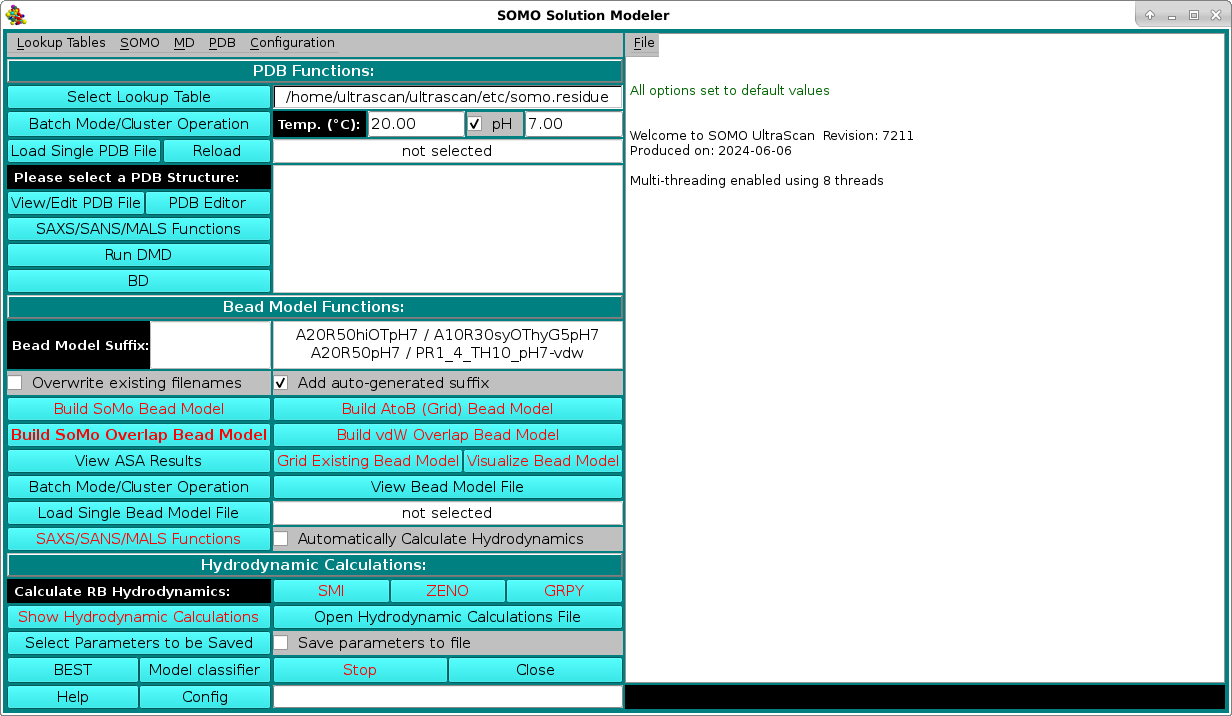
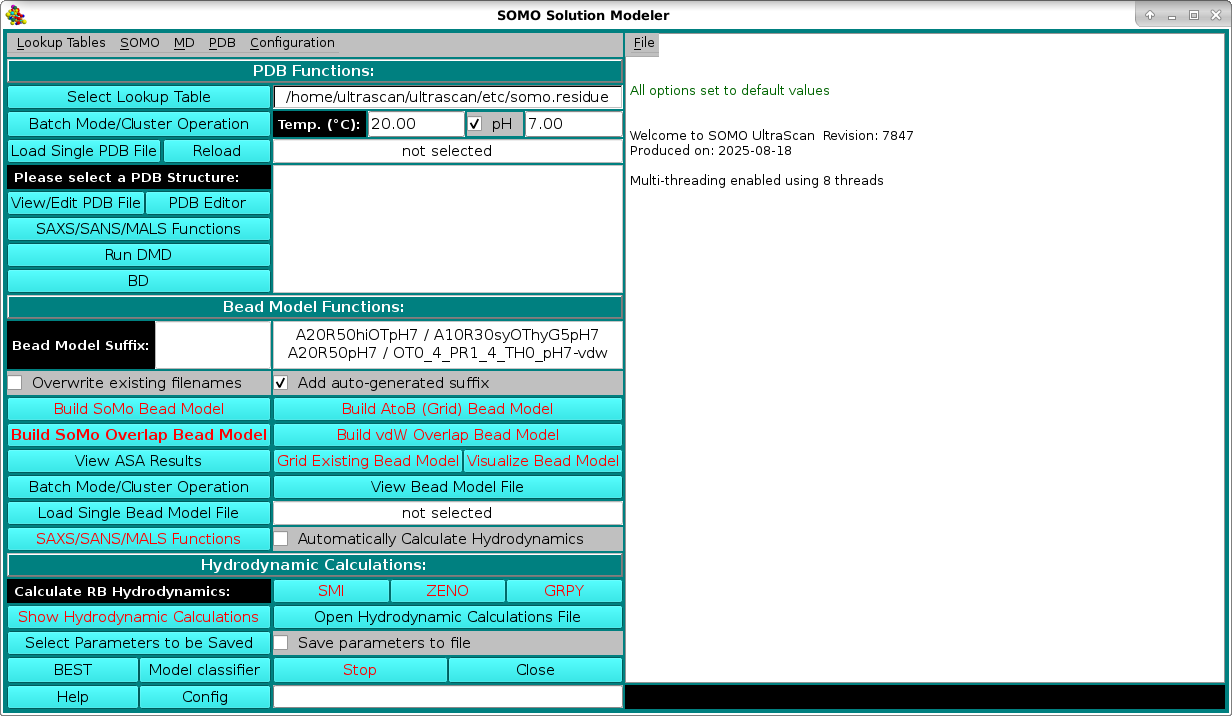
somo doc updates

diff --git a/us_somo/somo/doc/manual/somo/somo.html b/us_somo/somo/doc/manual/somo/somo.html
@@ -24,7 +24,7 @@
 SOMO - SOlution MOdeler: bead and SAXS/SANS modeler for (bio)macromolecular structures</h2>
 </center>
 <p>
-<h3><center>Last updated: June 2024 </center></h3><p>
+<h3><center>Last updated: August 2025 </center></h3><p>
 <p>
 <h3><b>Overview and History</b></h3>
 <p>
@@ -39,7 +39,7 @@ In <span style="color:#CC0000">2017</span>, a new implementation of the <i><b>ZE
 In <span style="color:#CC0000">2018</span>, a new computational method that could handle bead models with <i>overlapping beads of different size</i> has been presented (Zuk et al., GRPY: an accurate bead method for calculation of hydrodynamic properties of rigid biomacromolecules,  Biophys. J. 115:782-800, 2018). <b><i>GRPY</i></b> (<i>Generalized Rotne-Prager-Yamakawa</i>) works in the same framework as the <b><i>SMI</i></b> method, while solving the long-standing issue of overlaps between beads of different sizes and providing robust estimates of the intrinsic viscosity and the rotational diffusion coefficients (the latter are not computed by <b><i>ZENO</i></b>), but is rather more computationally intensive. A non-parallel <b><i>GRPY</i></b> code was made available within <b><i>US-SOMO</i></b> as an additional computational option, and a full implementation allowing multi-core parallel processing is now available for all operating systems from the <span style="color:#CC0000">July 2024</span> release.<br>
 <span style="color:#CC0000">Importantly</span>, the <b><i>GRPY</i></b> availability has allowed us to re-examine the performance of the <b><i>SMI</i></b> method for what concerns models with non-overlapping beads. While small differences were found for the <i>translational diffusion</i> properties computations, we are sorry to report that the <b><i>SMI</i></b> calculations of the <i>rotational diffusion</i> and the <i>intrinsic viscosity</i> did not match the state-of-the-art <b><i>GRPY</i></b> results for simple bead models (linear arrays, compact  arrays, round arrays, all with equal radius) test structures, with up to 40% differences for the <i>rotational diffusion</i> properties. This failure directly stems from the inadequacy of the so-called "volume correction" that was originally developed by J. Garc&iacute;a de la Torre and collaborators and that is implemented in the <b><i>SMI</i></b> routines (see Spotorno et al., Eur. Biophys. J. 25:373-384, 1997; Erratum 26:417, 1997). While the Garc&iacute;a de la Torre group has subsequently introduced improvements for the computation of the <i>rotational diffusion</i> and the <i>intrinsic viscosity</i> (see Garc&iacute;a de la Torre et al., Improved calculation of rotational diffusion and intrinsic viscosity of bead models for macromolecules and nanoparticles. J. Phys. Chem. B 111, 955-961, 2007), it turns out that these can be applied only for non-overlapping beads of <b>equal size</b>. Therefore, from the <span style="color:#CC0000">February 2021</span> <b><i>US-SOMO</i></b> release, the <b><i>SMI</i></b> method hydrodynamic computations output will <span style="color:#CC0000">NOT</span> report anymore the <i>rotational diffusion</i> properties and the <i>intrinsic viscosity</i> values. Users interested in these calculations can utilize the state-of-the-art <b><i>GRPY</i></b> method, that is, however, computationally demanding, or, limited to the <i>intrinsic viscosity</i> calculation, the <b><i>ZENO</i></b> method, that can handle large structures. <br><p>
 
-Importantly, the availability of parallel <b><i>GRPY</i></b> and the <b><i>vdW models</i></b> has allowed us to test in detail the performance of the <b><i>ZENO</i></b> method. We found that the <b><i>ZENO</i></b> calculation of <i>D<sub>t</i><sub>(20,w)</sub> constantly produced relatively larger (&#126;+1-2%) values than those computed by <b><i>GRPY</i></b> for our test set of 25 protein structures. We could track a dependency on the "<i>skin thickness</i>" parameter in the <b><i>ZENO</i></b> calculations, that correlated linearly, although not perfectly, with the radius of gyration <i>R<sub>g</sub></i> of those proteins. Surface roughness appeared also to be a factor, but calculations of a proxy for this feature, the mass or surface fractal dimensions (<i><b>D<sub>m</sub></i></b> and <i><b>D<sub>s</sub></i></b>) did not produce any useful correlation. Incidentally, stemming from this work the calculations of <b><i>D<sub>m</sub></i></b> and <b><i>D<sub>s</sub></i></b> can now be performed as an option on loading a (bio)-macromolecular structure in <b><i>US-SOMO</b></i>. Using more elongated structures (derived from the fibrinogen main body crystal structure 3GHG.pdb) we found that the <b><i>ZENO</i></b> skin-dependence of the differences with the <b><i>GRPY</i></b> calculations reached a plateau at <i>R<sub>g</sub></i> values of 50-60 &Aring;. The <i>R<sub>g</sub></i>-dependence of this entire dataset of 33 protein structures was fitted with a sigmoid, and using this skin thickness heuristic dependence reduced the discrepancy between <b><i>GRPY</i></b> and <b><i>ZENO</i></b> calculated <i>D<sub>t</i><sub>(20,w)</sub> values to an average of 0.5&plusmn;0.22% (range &plusmn;0.6%) (Brookes and Rocco, manuscript in preparation). This heuristic <b><i>ZENO</i></b> skin value calculation is now offered as a <b><i>default</i></b> option from the <span style="color:#CC0000">July 2024</span> release of <b><i>US-SOMO</i></b>. <br><p>
+Importantly, the availability of parallel <b><i>GRPY</i></b> and the <b><i>vdW models</i></b> has allowed us to test in detail the performance of the <b><i>ZENO</i></b> method. We found that the <b><i>ZENO</i></b> calculation of <i>D<sub>t</i><sub>(20,w)</sub> constantly produced relatively larger (&#126;+1-2%) values than those computed by <b><i>GRPY</i></b> for our test set of 25 protein structures. We could track a dependency on the "<i>skin thickness</i>" parameter in the <b><i>ZENO</i></b> calculations, that correlated linearly, although not perfectly, with the radius of gyration <i>R<sub>g</sub></i> of those proteins. Surface roughness appeared also to be a factor, but calculations of a proxy for this feature, the mass or surface fractal dimensions (<i><b>D<sub>m</sub></i></b> and <i><b>D<sub>s</sub></i></b>) did not produce any useful correlation. Incidentally, stemming from this work the calculations of <b><i>D<sub>m</sub></i></b> and <b><i>D<sub>s</sub></i></b> can now be performed as an option on loading a (bio)-macromolecular structure in <b><i>US-SOMO</b></i>. Using more elongated structures (derived from the fibrinogen main body crystal structure 3GHG.pdb) we found that the <b><i>ZENO</i></b> skin-dependence of the differences with the <b><i>GRPY</i></b> calculations reached a plateau at <i>R<sub>g</sub></i> values of 50-60 &Aring;. However, a different skin thickness value is required for the same bead model to match also the intrinsic viscosity [&eta;], rendering this approach impractical. In a recent work (Brookes, Zuk and Rocco, Bead model hydrodynamics: an in-depth comparison between GRPY and ZENO. Eur Biophys J (2025). https://doi.org/10.1007/s00249-025-01758-8) that established <i><b>GRPY</b></i> as the most accurate method available within <b><i>US-SOMO</i></b>, we introduced a heuristic correction for <i><b>ZENO</b></i> without varying the skin thickness, and based instead on a power-law fit of the changes as a function of the number of beads present in the model (see <a href="somo_hydro_zeno.html">here</a>). This correction reduces the discrepancy between <b><i>ZENO</i></b> and <b><i>GRPY</i></b> calculated <i>D<sub>t</i><sub>(20,w)</sub> values to an average of -0.11&plusmn;0.22% (range -0.56 +0.27%) for globular proteins, and to +0.25&plusmn;0.16% (range +0.06 +0.52%) for elongated structures. Moreover, a second power-law fit provides a way of correcting <b><i>ZENO</b></i>-calculated [&eta;] values reducing the average percent difference for globular proteins to -0.03&plusmn;0.44% (range -0.79 +0.92%), and to +0.48&plusmn;0.42% (range +0.21 +0.85%) for elongated structures. These heuristic <b><i>ZENO</i></b> corrections are now offered as a <b><i>default</i></b> option from the <span style="color:#CC0000">August 2025</span> release of <b><i>US-SOMO</i></b>. <br><p>
 
 
 <b><i>US-SOMO</i></b> also includes a fully functional Small-Angle X-ray or Neutron Scattering (SAXS/SANS) simulator module, which works on either the original atomic structure, or on a bead model, and has enhanced experimental data processing capabilities. In the modeling area, several methods are offered for the computation of SAXS and SANS <i>I(q)</i> vs. <i>q</i> curves. Some of these methods require explicit hydration of the PDB structure(s), which should be presently externally provided. A pairwise-distance distribution function <i>P(r)</i> vs. <i>r</i> computation starting from a PDB structure is fully operational for both SAXS and SANS, and includes a graphical mapping utility to visualize which residues in the structure are contributing to specified distance ranges. An indirect Fourier transform Bayesian algorithm, based on the work by Hansen (Hansen, J. Appl. Crystallogr. 33:1415-1421, 2000; Hansen, J. Appl. Crystallogr. 41:436-445, 2008), has been implemented for the computation of the pairwise distance distribution function from SAS data.<br>
@@ -173,7 +173,7 @@ Pressing the <i><b>RUN DMD</b></i> button will first open the <a href="somo_clus
 <tr>
 <center>
 <table id="somomainwindow" BORDER CELLSPACING=0 CELLPADDING=5 bgcolor="#FFFFFF">
-<td><center><img SRC="Somo_BeadModel_functions_June2024.png" ALT="SOMO Screen"></td>
+<td><center><img SRC="Somo_BeadModel_functions_June2024.png" ALT="SOMO Bead Model functions Screen"></td>
 </tr> 
 </table>
 </center>
@@ -183,7 +183,7 @@ Pressing the <i><b>RUN DMD</b></i> button will first open the <a href="somo_clus
 <b>Bead Model Functions:</b><br>
 Once a model structure (or multiple model structures in the case of NMR-style formatted data) are selected, the <i><b>Build SoMo Bead Model</b></i>,
 <i><b>Build AtoB (Grid) Bead Model</b></i>, <i><b>Build SoMo Overlap Bead Model</b></i>, and <i><b>Build vdW Overlap Bead Model</b></i> buttons will also become active, offering alternative ways of generating a bead model. In particular, the third option, which will generate a <i>SoMo</i>-type bead model with overlaps without then removing them, is an addition made available starting from the May 2015 release, reflecting the conclusions of an extensive examination of all the hydrodynamic modeling/computational methods then available (Rocco and Byron,  Eur. Biophys. J. 44:417-431, 2015). The fourth option, still under active development, has been added with the January 2018 release, and allows generating a bead model where each atom present in the PDB file is represented by a bead whose radius is equal to the atom's van der Waals radius as listed in the <i>somo.residue</i> table. If water molecules are associated to any particulat atom in the <i>somo.residue</i> table, their volume is taken into account in the definition of the bead's radius. As of <span style="color:#CC0000">July 2024</span>, tests with an extended set of proteins have provided evidence that the <b><i>vdW with Ovelaps</i></b> models can now reproduce accurately their translational diffusion, rotational diffusion, and intrinsic viscosity parameters, although the exact details of the hydrated beads positioning are still under evaluation (Brookes and Rocco, manuscript in preparation). Note that if the latter two bead modeling methods are chosen, the <b><i>SMI</i></b> method will not be available, and only the <b><i>ZENO</i></b> and <b><i>GRPY</i></b> computational methods could be used (see below).<br>
-In the <b>Bead Model suffix</b> field you can enter a tag that will be added to the bead model filename, which is automatically generated from the PDB filename by adding "_1" and the extension ".bead_model".<br>
+In the <b>Bead Model Suffix</b> field you can enter a tag that will be added to the bead model filename, which is automatically generated from the PDB filename by adding "_1" and the extension ".bead_model".<br>
 In addition, the <i>Add auto-generated suffix</i> checkbox is selected by <b>default</b> (it can be deselected), and the corresponding field above is populated with a series of alphanumeric characters specifying the main options chosen during bead models generation. These characters will be also added to the bead model filename, to allow for a quick identification of the options used in its generation. Thus, "A20" stands for a residues' ASA cutoff threshold of 20 &Aring; (<b>default</b>), "R50" stands for a bead's ASA re-check cutoff threshold of 50% of its total surface area (<b>default</b>) (see <a href=somo_asa.html>here</a>), "hi" signifies hierarchical overlap reduction in all stages (alternatively, "sy" stands for synchronous overlap reduction), and "OT" means that the outward translation option during overlap removal of exposed side-chain beads is active (see <a href=somo_overlap.html>here</a> and <a href=somo_grid_overlap.html>here</a>).  <br>
 The "-so" suffix is added if the <i><b>Build SoMo Bead Model</b></i> button is then pressed, while the "-a2b" suffix is instead added if the <i><b>Build AtoB (Grid) Bead Model</b></i> button is pressed. In this case, the suffix symbols also include "G<i>n</i>" for the grid resolution, with <i>n</i> the actual value, and "hy" if the atomic-level hydration option is active (see <a href=somo_grid.html>here</a>). If the <i><b>Build SoMo Overlap Bead Model</b></i> is chosen, only the residues' and beads' recheck ASA cut-offs ("<i>A</i>" and "<i>R</i>" values) will be added, with extension "-so_ovlp". If the <i><b>Build vdW Overlap Bead Model</b></i> is chosen, suffixes will start with "OT<i>x_y</i>", where "<i>x_y</i>" reports the OT multiplier if different from 0 (see <a href=somo_vdw_overlap.html>here</a>), and then they will include the ASA probe radius used to identify exposed <i>atoms</i> to be hydrated ("<i>PR#_#</i>, with #_# the radius value in &Aring;) and the threshold accessible surface area thus computed for each hydratable atom ("<i>TH#</i>", with "#" the value in &Aring;<sup>2</sup>) (see <a href=somo_asa.html>here</a>). The extension will be "-vdw" and no other bead-generation methods symbols will be added, since they have no meaning in this case. However, if the <b><i>GRPY</b></i> hydrodynamic computations method is then utilized, and if the <b><i>Exclude</i></b> checkbox is selected for the "<i>Inclusion of Buried Beads in the Hydrodynamic Calculations (For GRPY)</i>" option in the <a href="somo_hydro.html"><b><i>Hydrodynamic Calculations Options</b></i></a> panel, the "<i>R#</i>" suffix (beads' ASA % re-check cutoff threshold) and a "<i>PR#_#</i>" suffix (ASA probe radius size, &Aring;) will be added with the used values (see <a href=somo_asa.html>here</a>). Finally, the last entry in the suffix field reports the pH at which the model was generated (the pH affects the hydration values at the atomic level).<br>
 Upon loading a PDB file and if the <i>Add auto-generated suffix</i> checkbox is not de-selected, the corresponding field will show the four current strings available for <i>SoMo without overlaps</i>, <i>AtoB</i>, <i>SoMo with overlaps</i>, and <i>vdW with overlaps</i> bead models. If any of the options coded in the strings are changed, the field will be automatically updated. The final string will appear once a bead model generation operation is launched. Note that you can keep processing a loaded PDB file after changing any of the various model-building options (see below). If the <i>Overwrite existing filenames</i> checkbox is selected, existing filenames will be overwritten without a warning. Otherwise, a pop up menu will instead appear offering alternative options (see <a href="somo_file.html">here</a>). The <i>Overwrite existing filenames</i> checkbox is automatically selected for batch mode operations.<br>
@@ -218,14 +218,29 @@ although using the improved AtoB routine on the original PDB file while increasi
 <table BORDER CELLSPACING=0 CELLPADDING=5 bgcolor="#FFFFFF">
 <tr>
 
-<td><center><img SRC="somo-Hydrodynamic_calculations_September2020.png" ALT="Bead Model Functions Screen"></td>
+<td><center><img SRC="somo-Hydrodynamic_calculations_September2020.png" ALT="Hydrodynamic Calculations Panel"></td>
 </tr> 
 </table>
 </center>
 <td align=justify>
 <p>
 <b>Hydrodynamic Calculations:</b><br>
-The hydrodynamic parameters can then be determined in the <b>rigid-body (RB) approximation</b> by clicking on either ot the three options present under the <i><b>Calculate RB Hydrodynamics</b></i> field: <i><b>SMI</b></i>, <i><b>ZENO</b></i>, or <i><b>GRPY</b></i>. If the bead model was generated by pressing the <i><b>Build SoMo Overlap Bead Model</b></i> or the <i><b>Build vdW Overlap Bead Model</b></i> buttons, or if it was uploaded and contains either the "-so_ovlp" of the "-vdw" suffix, only the <i><b>ZENO</b></i> or <i><b>GRPY</b></i> buttons will be available. If the  <i><b>Calculate RB Hydrodynamics SMI</b></i> button is pressed, the <b><i>SMI</i></b> method will anyway perform an overlap test, using the cut-off present either in the bead model file, or that present in the <b><i>Overlap Reduction Options</b></i> modules (see <a href="somo_overlap.html">here</a> and <a href="somo_grid_overlap.html">here</a>), or, if it has been selected, the <i>manual</i> value selected in the <b><i>Hydrodynamic Calculations Options</b></i> module (see <a href="somo_hydro.html">here</a>). The test will stop after up to 20 overlap instances exceeding the cut-off has been found, listed in the progress window with a message alerting the user that proper action should be taken, like changing the cut-off (not recommended if they substantially exceed the default limits), remove the overlaps, or use the <b><i>ZENO</i></b> or <i><b>GRPY</b></i> methods. The messages printed in the progress window for the <b><i>ZENO</i></b> processing of the <i>SoMo Overlap Bead Model</i> for the 1HEL.PDB structure are shown in the image below, followed by a list of References that should be cited if the <b><i>US-SOMO</i></b>-computed parameters are reported in a publication (the list is specific for any particular bead-generation/hydrodynamic computation methods used):<p>
+The hydrodynamic parameters can then be determined in the <b>rigid-body (RB) approximation</b> by clicking on either ot the three options present under the <i><b>Calculate RB Hydrodynamics</b></i> field: <i><b>SMI</b></i>, <i><b>ZENO</b></i>, or <i><b>GRPY</b></i>. If the bead model was generated by pressing the <i><b>Build SoMo Overlap Bead Model</b></i> or the <i><b>Build vdW Overlap Bead Model</b></i> buttons, or if it was uploaded and contains either the "-so_ovlp" of the "-vdw" suffix, only the <i><b>ZENO</b></i> or <i><b>GRPY</b></i> buttons will be available. If the  <i><b>Calculate RB Hydrodynamics SMI</b></i> button is pressed, the <b><i>SMI</i></b> method will anyway perform an overlap test, using the cut-off present either in the bead model file, or that present in the <b><i>Overlap Reduction Options</b></i> modules (see <a href="somo_overlap.html">here</a> and <a href="somo_grid_overlap.html">here</a>), or, if it has been selected, the <i>manual</i> value selected in the <b><i>Hydrodynamic Calculations Options</b></i> module (see <a href="somo_hydro.html">here</a>). The test will stop after up to 20 overlap instances exceeding the cut-off has been found, listed in the progress window with a message alerting the user that proper action should be taken, like changing the cut-off (not recommended if they substantially exceed the default limits), remove the overlaps, or use the <b><i>ZENO</i></b> or <i><b>GRPY</b></i> methods.<br>
+Another check is introcuced from the <span style="color:#CC0000">August 2025</span> release: in an in-depth comparative study between <i><b>ZENO</b></i> and <i><b>GRPY</b></i> (Brookes, Zuk and Rocco, Bead model hydrodynamics: an in-depth comparison between GRPY and ZENO. Eur Biophys J (2025). https://doi.org/10.1007/s00249-025-01758-8) that established <i><b>GRPY</b></i> as the most accurate method available within <b><i>US-SOMO</i></b>, we introduced a heuristic correction for <i><b>ZENO</b></i> based on the number of beads present in the model (see <a href="somo_hydro_zeno.html">here</a>). However, the correction appears to work better as the number of beads increases, and since <i><b>GRPY</b></i> can handle well bead models having up to 1000 beads included (see <a href="somo_hydro.html">here</a>), <b>IF</b> the <i><b>ZENO</b></i> method button is pressed, a check on the number of beads in the model is performed. <b>IF</b> this number is below 1000, a pop-up will appear:<p>
+
+<tr>
+<center>
+<table id="somomainwindow" BORDER CELLSPACING=0 CELLPADDING=5 bgcolor="#FFFFFF">
+<td><center><img SRC="somo_ZENO_correction_warning.png" ALT="ZENO number of beads in the model warning"></td>
+</tr> 
+</table>
+</center>
+<td align=justify>
+<p>
+
+Pressing "Continue" will let anyway the <i><b>ZENO</b></i> procedure run to completion, pressing "Quit" will abort the <i><b>ZENO</b></i> calculations.<br>
+
+The messages printed in the progress window for the <b><i>ZENO</i></b> processing of the <i>SoMo Overlap Bead Model</i> for the 1HEL.PDB structure are shown in the image below, followed by a list of References that should be cited if the <b><i>US-SOMO</i></b>-computed parameters are reported in a publication (the list is specific for any particular bead-generation/hydrodynamic computation methods used):<p>
 
 <tr>
 <center>
@@ -566,7 +581,7 @@ The latest version of this document can always be found at:
 </font>
 <p>
 <font face="helvetica" size="-1">
-Last modified on June 16, 2024.
+Last modified on August 12, 2025.
 </font>
 </body>
 </html>

diff --git a/us_somo/somo/doc/manual/somo/somo_hydro_zeno.html b/us_somo/somo/doc/manual/somo/somo_hydro_zeno.html
@@ -22,7 +22,7 @@
 <center>
 <h2> Zeno - Hydrodynamic Calculations Options Module</h2>
 <p>
-<h3><center>Last updated: June 2024 </center></h3><p>
+<h3><center>Last updated: August 2025 </center></h3><p>
 </center>
 <p>
 
@@ -62,7 +62,7 @@ Enter the number of steps in the <i>Zeno Steps (thousands):</i> field (<b>Defaul
 The <i>Skin Thickness (current units):</i> The skin thickness is utilized in the Zeno calculation.  It is a multiplier of the launch radius.  The launch radius is the radius of a sphere centered at zero which contains the model. 
 Leaving the value at 0 uses the internal default value of 1E-6. The authors of Zeno recommend that the value should be on the order of 1E-5 to 1E-6. (<b>Default:</b> 0.000)<p>
 
-More recently, we have discovered a discrepancy between the translational diffusion coefficient as calculated by <b><i>ZENO</i></b> and <b><i>GRPY</i></b>.  We found that the <b><i>ZENO</i></b> calculation of <i>D<sub>t</i><sub>(20,w)</sub> constantly produced relatively larger (&#126;+1-2%) values than those computed by <b><i>GRPY</i></b> for our test set of 25 protein structures. We could track a dependency on the "<i>Skin Thickness</i>" parameter in the <b><i>ZENO</i></b> calculations, that correlated linearly, although not perfectly, with the radius of gyration <i>R<sub>g</sub></i> of those proteins. Using more elongated structures (derived from the fibrinogen main body crystal structure 3GHG.pdb) we found that the <b><i>ZENO</i></b> skin-dependence of the differences with the <b><i>GRPY</i></b> calculations reached a plateau at <i>R<sub>g</sub></i> values of 50-60 &Aring;. The <i>R<sub>g</sub></i>-dependence of this entire dataset of 33 protein structures was fitted with a sigmoid, and using this skin thickness heuristic dependence reduced the discrepancy between <b><i>GRPY</i></b> and <b><i>ZENO</i></b> calculated <i>D<sub>t</i><sub>(20,w)</sub> values to an average of 0.5&plusmn;0.22% (range &plusmn;0.6%) (Brookes and Rocco, manuscript in preparation). This heuristic <b><i>ZENO</i></b> skin value calculation is now offered as a <b><i>default</i></b> option from the <span style="color:#CC0000">July 2024</span> release of <b><i>US-SOMO</i></b>.
+More recently, we have discovered a discrepancy between the translational diffusion coefficient as calculated by <b><i>ZENO</i></b> and <b><i>GRPY</i></b>.  We found that the <b><i>ZENO</i></b> calculation of <i>D<sub>t</i><sub>(20,w)</sub> constantly produced relatively larger (&#126;+1-2%) values than those computed by <b><i>GRPY</i></b> for our test set of 25 protein structures. A symmetrical behavior was found when comparing the intrincic viscosity [&eta;] calculated values, with <b><i>ZENO</i></b> underestimating the values by roughly the same percentages. We also used more elongated structures (derived from the fibrinogen main body crystal structure 3GHG.pdb), confirming these trends. As described in our recent publication (Brookes, Zuk and Rocco, Bead model hydrodynamics: an in-depth comparison between GRPY and ZENO. Eur Biophys J (2025). https://doi.org/10.1007/s00249-025-01758-8), we found  heuristic dependencies as a function of the number of beads in the model, described by power laws in the form <i>y = a + b * x<sup>c</sup></i>), whose coefficients are listed in this panel. Applying these corrections reduced the discrepancy between <b><i>ZENO</i></b> and <b><i>GRPY</i></b> calculated <i>D<sub>t</i><sub>(20,w)</sub> values to an average of -0.11&plusmn;0.22% (range -0.56 +0.27%) for globular proteins, and to +0.25&plusmn;0.16% (range +0.06 +0.52%) for elongated structures. The second power-law fit corrects <b><i>ZENO</b></i>-calculated [&eta;] values reducing the average percent difference for globular proteins to -0.03&plusmn;0.44% (range -0.79 +0.92%), and to +0.48&plusmn;0.42% (range +0.21 +0.85%) for elongated structures.  These heuristic <b><i>ZENO</i></b> corrections are now offered as a <b><i>default</i></b> option from the <span style="color:#CC0000">August 2025</span> release of <b><i>US-SOMO</i></b>.
 <p>
 The last entry in this option panel is the <i>Zeno repetitions</i>. <b><i>ZENO</i></b> could be relaunched sequentially on the same model, providing additional statistics on the calculated parameters. <b>Default: 1</b> (meaning <b><i>ZENO</i></b> will run just once for each model).
 
